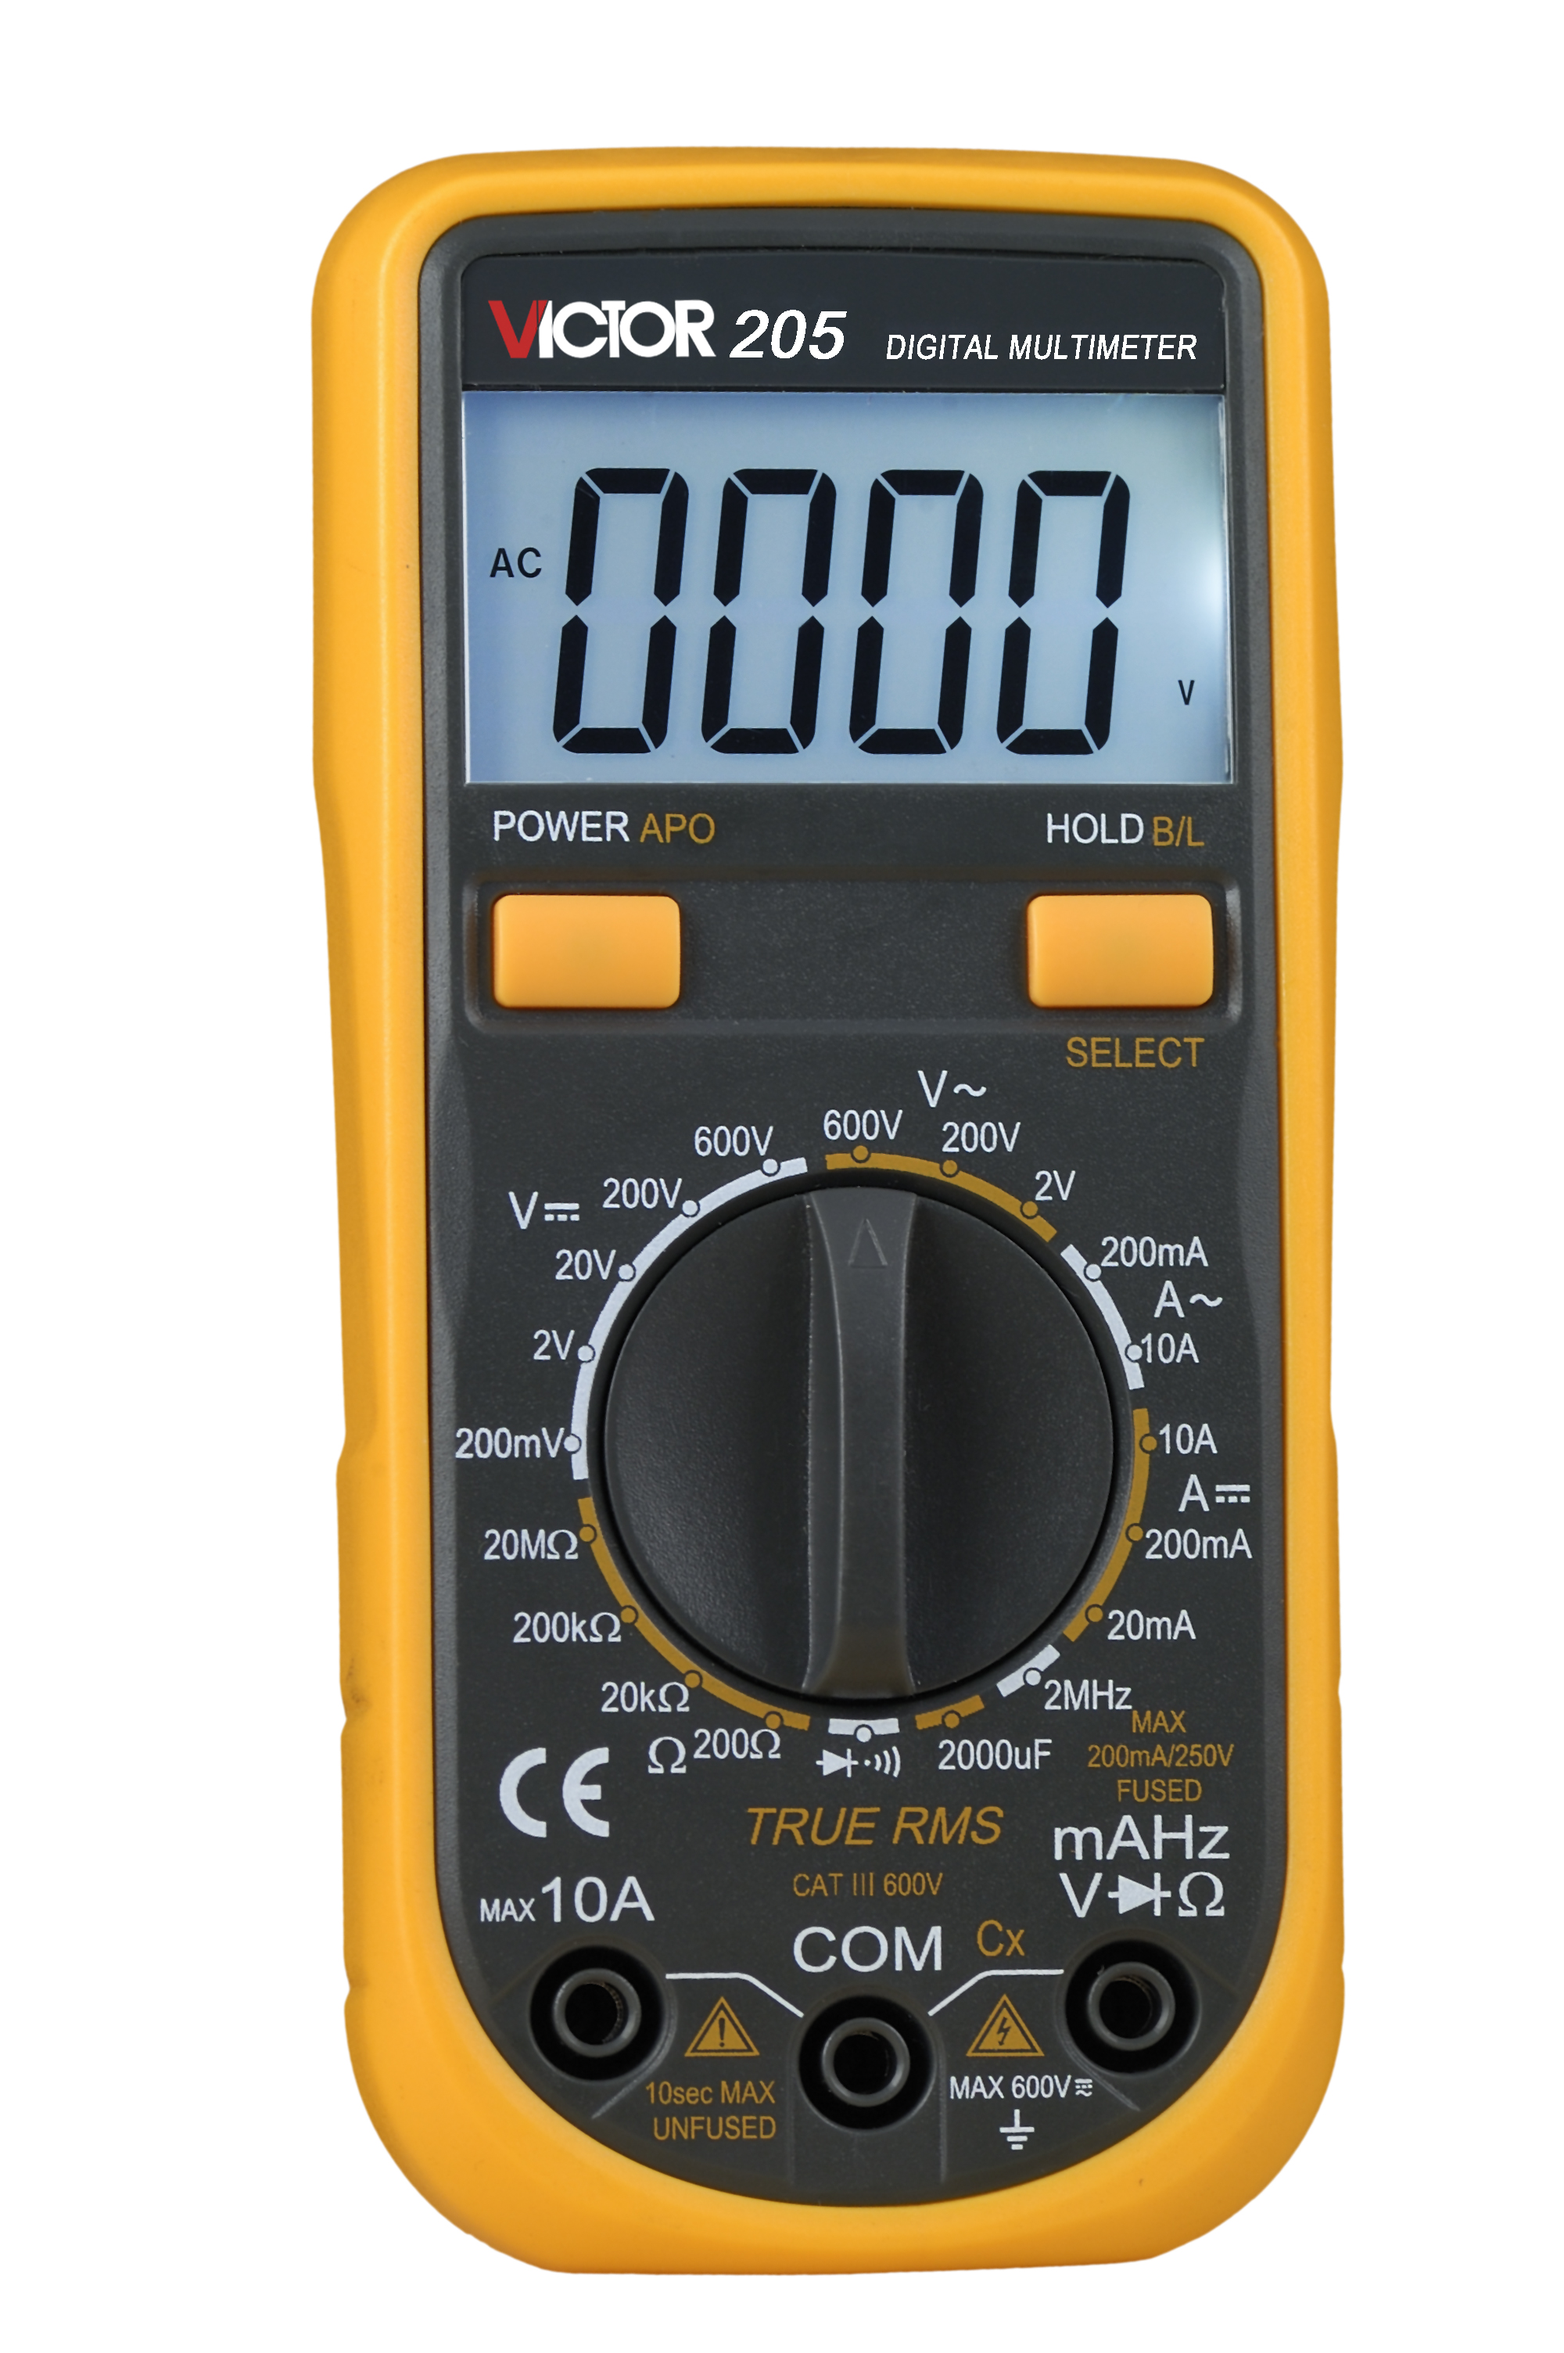
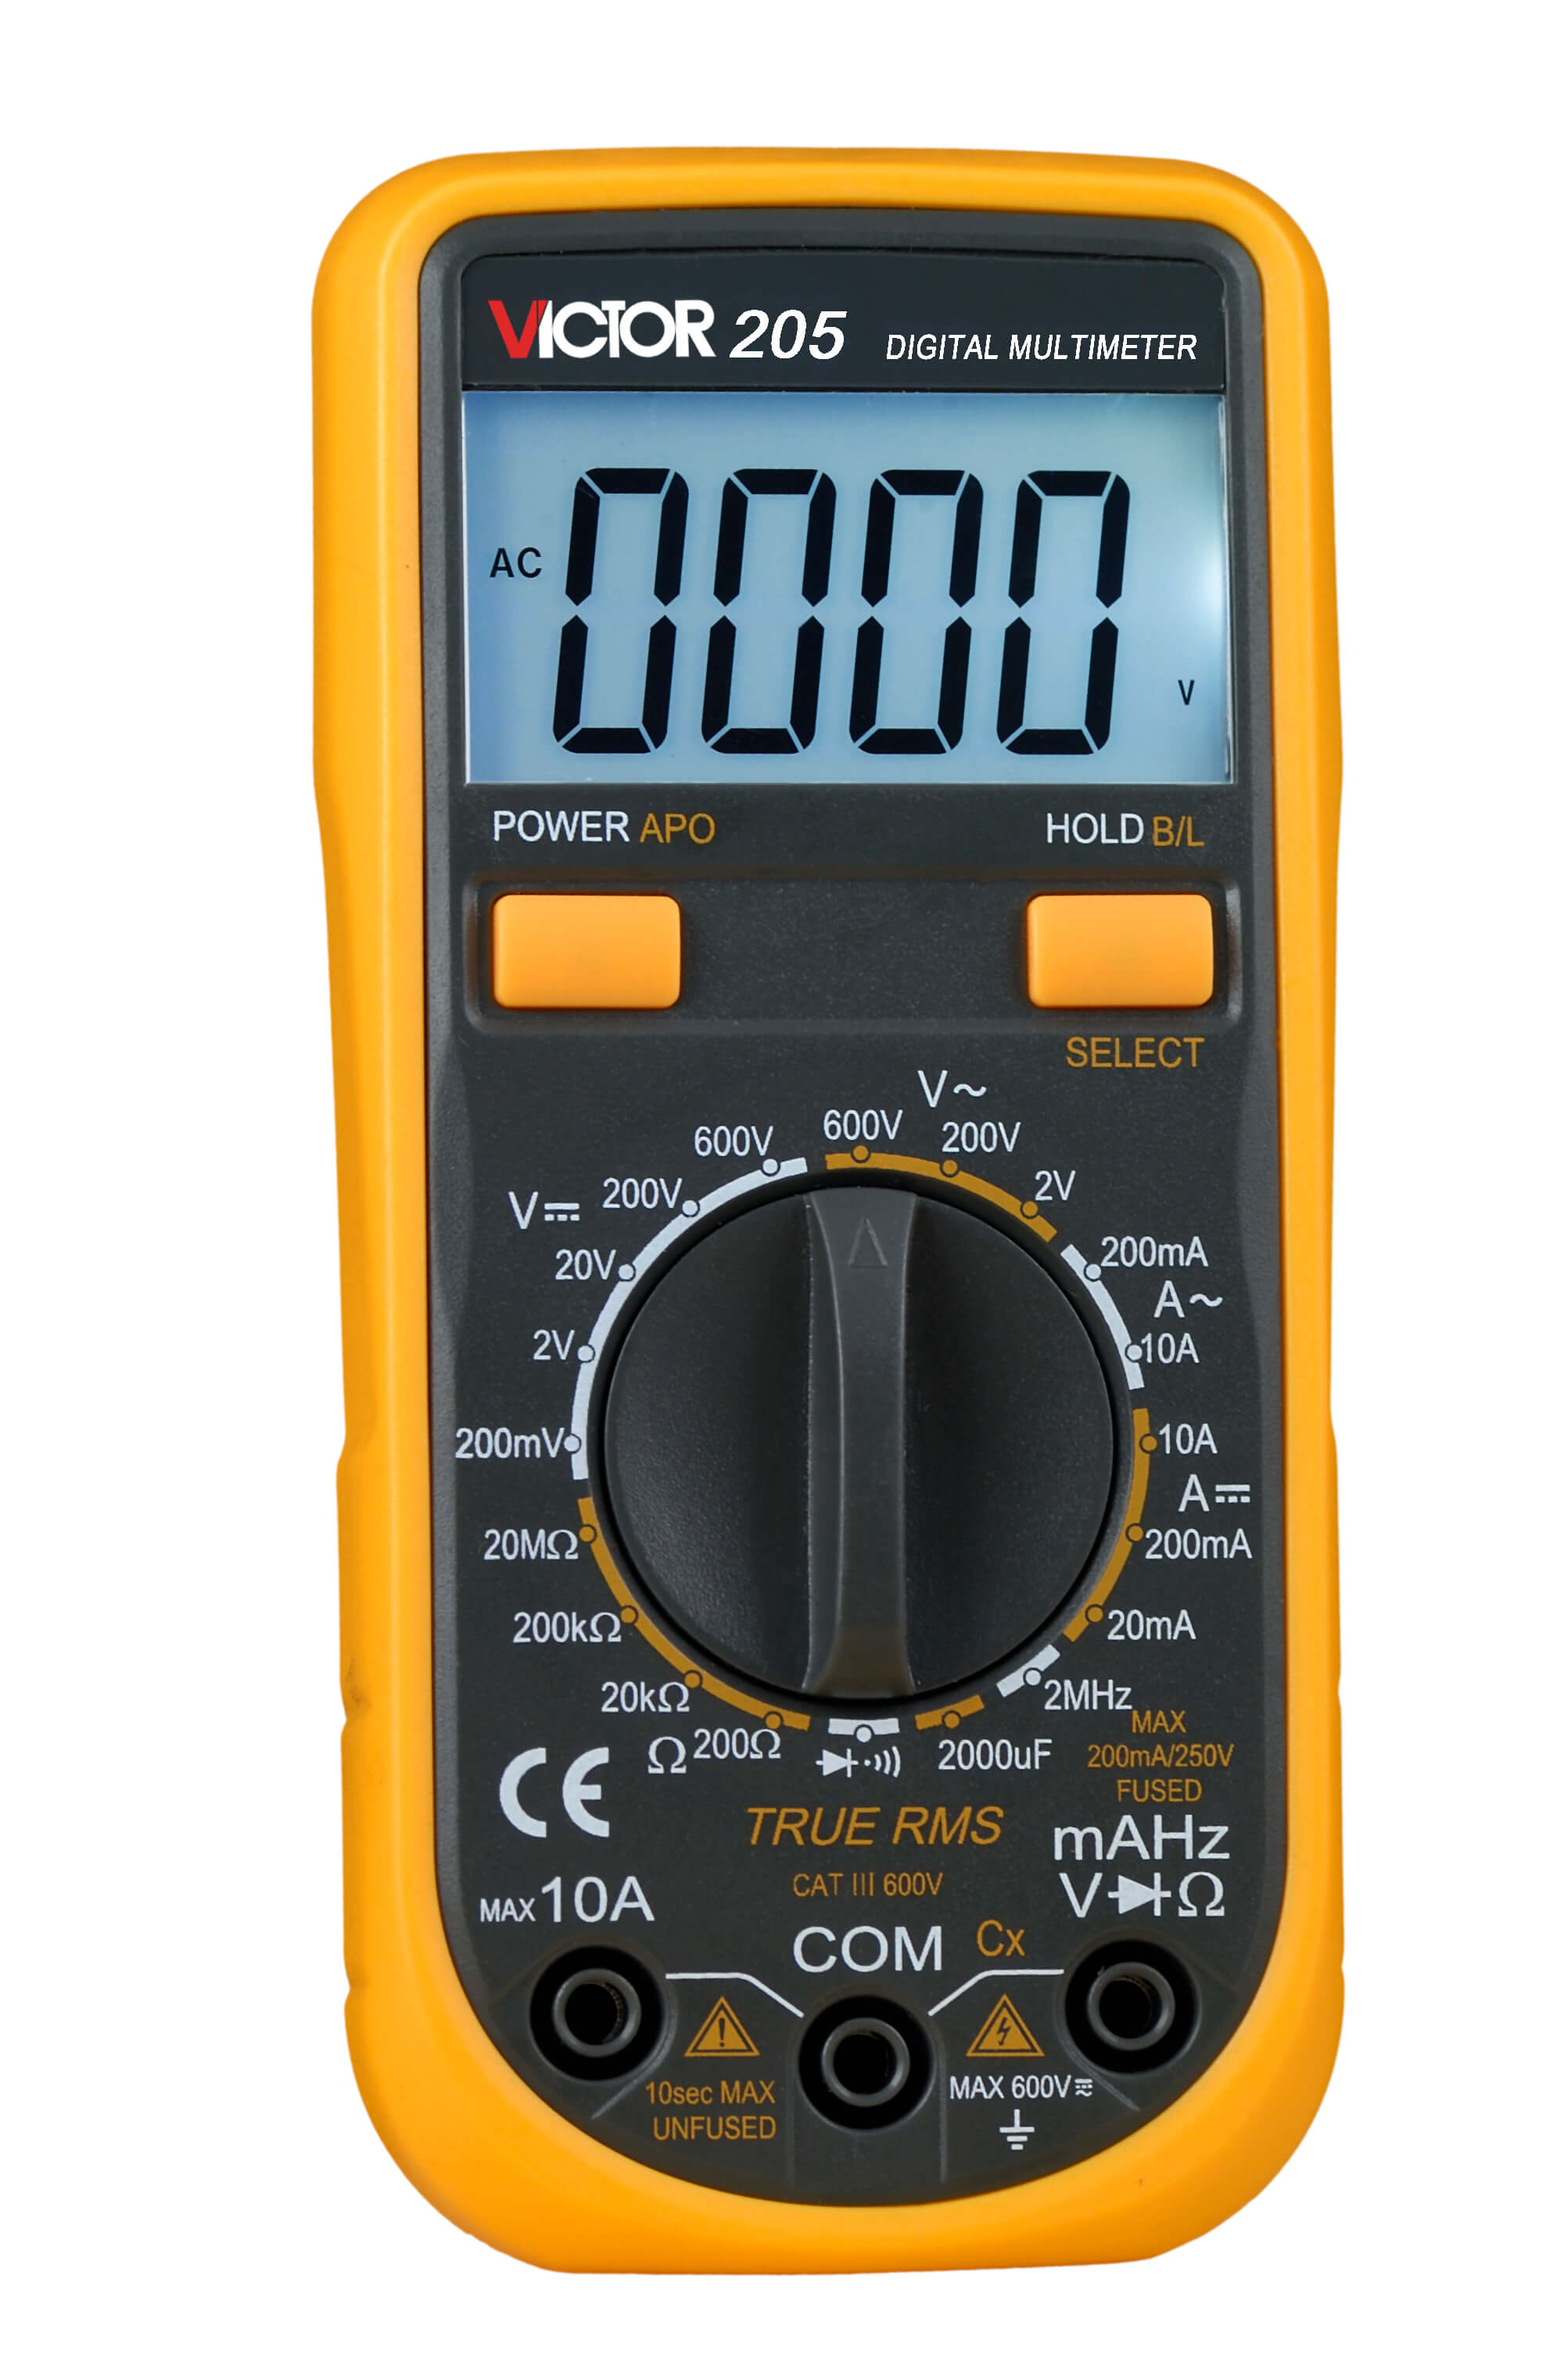
compactado de imagenes y agregado de meta

diff --git a/index.html b/index.html
@@ -5,6 +5,8 @@
     <meta charset="UTF-8">
     <meta http-equiv="X-UA-Compatible" content="IE=edge">
     <meta name="viewport" content="width=device-width, initial-scale=1.0">
+    <meta name="keywords" content="dylon, componentes, instrumento, medicion, camaras, alarmas, inicio">
+    <meta name="descripcion" content="Ventas de instrumemtal, camaras y alarmas">
 
     <!-- Vinculacion de Google Fonts - Roboto -->
     <link rel="preconnect" href="https://fonts.googleapis.com">
@@ -23,7 +25,7 @@
         integrity="sha384-1BmE4kWBq78iYhFldvKuhfTAU6auU8tT94WrHftjDbrCEXSU1oBoqyl2QvZ6jIW3" crossorigin="anonymous">
 
     <link rel="stylesheet" href="./css/estilos.css">
-    <title>Electronica Dylon</title>
+    <title>Inicio - Electronica Dylon</title>
 
     <link rel="icon" href="./imagenes/favicon.png" type="image/x-icon">  
 
@@ -77,7 +79,7 @@
                         </h3>
                     </div>
                     <div class="col-xl-6">
-                        <img class="main__inicio1__ilustracion" src="./imagenes/archive-g52d3bd05f_1920.jpg"
+                        <img class="main__inicio1__ilustracion" src="./imagenes/archive1920.jpg"
                             alt="ilustracion" width="700" height="400">
                     </div>
                 </div>

diff --git a/paginas/contacto.html b/paginas/contacto.html
@@ -5,6 +5,8 @@
     <meta charset="UTF-8">
     <meta http-equiv="X-UA-Compatible" content="IE=edge">
     <meta name="viewport" content="width=device-width, initial-scale=1.0">
+    <meta name="keywords" content="dylon, componentes, instrumento, medicion, camaras, alarmas">
+    <meta name="description" content="Contacto con la empresa">
 
     <!-- Vinculacion de Google Fonts - Roboto -->
     <link rel="preconnect" href="https://fonts.googleapis.com">
@@ -23,7 +25,7 @@
         integrity="sha384-1BmE4kWBq78iYhFldvKuhfTAU6auU8tT94WrHftjDbrCEXSU1oBoqyl2QvZ6jIW3" crossorigin="anonymous">
 
     <link rel="stylesheet" href="../css/estilos.css">
-    <title>Electronica Dylon</title>
+    <title>Contactos - Dylon</title>
     <link rel="icon" href="../imagenes/favicon.png" type="image/x-icon">  
 
 </head>

diff --git a/paginas/productos.html b/paginas/productos.html
@@ -5,6 +5,10 @@
     <meta charset="UTF-8">
     <meta http-equiv="X-UA-Compatible" content="IE=edge">
     <meta name="viewport" content="width=device-width, initial-scale=1.0">
+    <meta name="keywords" content="dylon, componentes, instrumento, medicion, camaras, alarmas">
+    <meta name="description" content="Productos a seleccionar">
+
+
 
     <!-- Vinculacion de Google Fonts - Roboto -->
     <link rel="preconnect" href="https://fonts.googleapis.com">
@@ -23,7 +27,7 @@
         integrity="sha384-1BmE4kWBq78iYhFldvKuhfTAU6auU8tT94WrHftjDbrCEXSU1oBoqyl2QvZ6jIW3" crossorigin="anonymous">
 
     <link rel="stylesheet" href="../css/estilos.css">
-    <title>Electronica Dylon</title>
+    <title>Productos - Dylon</title>
 
     <link rel="icon" href="../imagenes/favicon.png" type="image/x-icon">  
 

diff --git a/paginas/empresa.html b/paginas/empresa.html
@@ -5,6 +5,8 @@
     <meta charset="UTF-8">
     <meta http-equiv="X-UA-Compatible" content="IE=edge">
     <meta name="viewport" content="width=device-width, initial-scale=1.0">
+    <meta name="keywords" content="dylon, componentes, instrumento, medicion, camaras, alarmas">
+    <meta name="description" content="Datos de la empresa">
 
     <!-- Vinculacion de Google Fonts - Roboto -->
     <link rel="preconnect" href="https://fonts.googleapis.com">
@@ -23,7 +25,7 @@
         integrity="sha384-1BmE4kWBq78iYhFldvKuhfTAU6auU8tT94WrHftjDbrCEXSU1oBoqyl2QvZ6jIW3" crossorigin="anonymous">
 
     <link rel="stylesheet" href="../css/estilos.css">
-    <title>Electronica Dylon</title>
+    <title>Empresa - Dylon</title>
     <link rel="icon" href="../imagenes/favicon.png" type="image/x-icon">  
 
 </head>

diff --git a/paginas/carrito.html b/paginas/carrito.html
@@ -5,6 +5,8 @@
     <meta charset="UTF-8">
     <meta http-equiv="X-UA-Compatible" content="IE=edge">
     <meta name="viewport" content="width=device-width, initial-scale=1.0">
+    <meta name="keywords" content="dylon, componentes, instrumento, medicion, camaras, alarmas">
+    <meta name="description" content="Carro de compras">
 
     <!-- Vinculacion de Google Fonts - Roboto -->
     <link rel="preconnect" href="https://fonts.googleapis.com">
@@ -23,7 +25,7 @@
         integrity="sha384-1BmE4kWBq78iYhFldvKuhfTAU6auU8tT94WrHftjDbrCEXSU1oBoqyl2QvZ6jIW3" crossorigin="anonymous">
 
     <link rel="stylesheet" href="../css/estilos.css">
-    <title>Electronica Dylon</title>
+    <title>Carrito - Dylon</title>
     <link rel="icon" href="../imagenes/favicon.png" type="image/x-icon">  
 
 </head>
